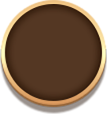
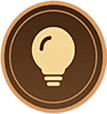
修改按钮

diff --git a/js/libs/common.js b/js/libs/common.js
@@ -45,9 +45,15 @@ com.loadImages = function (stype) {
 	com.background = new Image();
 	com.background.src = "images/" + stype + "/bg.jpg";
 
-	//悔棋按钮
+	//支招按钮
 	com.withdrawBtn = new Image();
 	com.withdrawBtn.src = "images/withdrawBtn.png";
+	//悔棋按钮
+	com.withdrawBtn1 = new Image();
+	com.withdrawBtn1.src = "images/withdrawBtn1.png";
+	//重来按钮
+	com.withdrawBtn2 = new Image();
+	com.withdrawBtn2.src = "images/withdrawBtn2.png";
 
 	//体力图标
 	com.staminaIcon = new Image();
@@ -660,8 +666,8 @@ com.class.Main = function (images, x, y) {
 			com.ct.drawImage(com.background, 0, 0, tt.getSystemInfoSync().windowWidth, tt.getSystemInfoSync().windowHeight)
 			com.ct.drawImage(com.bgImg, 0, com.spaceY * this.y + com.centreY, com.width, com.width * 1.34333)
 			com.ct.drawImage(com.withdrawBtn, com.centreX + 5, com.centreY + com.width * 1.34333 + 20, withdrawBtnWidth, withdrawBtnHeight)
-			com.ct.drawImage(com.withdrawBtn, com.centreX + 10 + (com.withdrawBtn.width) * 0.5, com.centreY + com.width * 1.34333 + 20, withdrawBtnWidth, withdrawBtnHeight)
-			com.ct.drawImage(com.withdrawBtn, com.width - 10 - withdrawBtnWidth + com.centreX + 5, com.centreY + com.width * 1.34333 + 20, withdrawBtnWidth, withdrawBtnHeight)
+			com.ct.drawImage(com.withdrawBtn1, com.centreX + 10 + (com.withdrawBtn.width) * 0.5, com.centreY + com.width * 1.34333 + 20, withdrawBtnWidth, withdrawBtnHeight)
+			com.ct.drawImage(com.withdrawBtn2, com.width - 10 - withdrawBtnWidth + com.centreX + 5, com.centreY + com.width * 1.34333 + 20, withdrawBtnWidth, withdrawBtnHeight)
 			com.ct.drawImage(com.checkpoint, com.centreX + 5, com.centreY - staminaHeight * 2.25, staminaWidth * 0.75, staminaHeight)
 			com.ct.drawImage(com.backToHomepage, com.centreX - 5, com.centreY - staminaHeight * 4, staminaWidth * 0.55, staminaWidth * 0.55)
 
@@ -698,19 +704,19 @@ com.class.Main = function (images, x, y) {
 	this.withdrawText = function (ctx) {
 		ctx.fillStyle = '#F9D195'
 		ctx.font = `${parseInt(withdrawBtnWidth / 4)}px Arial`
-		ctx.fillText('悔棋', com.centreX + 10 + (com.withdrawBtn.width) * 0.5 + (withdrawBtnWidth - parseInt(withdrawBtnWidth / 2)) / 2, com.spaceY * this.y + com.centreY + com.width * 1.34333 + withdrawBtnHeight - parseInt(withdrawBtnWidth / 12))
+		ctx.fillText('悔棋', com.centreX + 10 + (com.withdrawBtn.width) * 0.5 + (withdrawBtnWidth - parseInt(withdrawBtnWidth / 2)) / 2, com.centreY + com.width * 1.34333 + 20 + withdrawBtnHeight + parseInt(withdrawBtnWidth / 4))
 	}
 
 	this.promptText = function (ctx) {
 		ctx.fillStyle = '#F9D195'
 		ctx.font = `${parseInt(withdrawBtnWidth / 4)}px Arial`
-		ctx.fillText('支招', com.spaceX * this.x + com.centreX + 5 + (withdrawBtnWidth - parseInt(withdrawBtnWidth / 2)) / 2, com.centreY + com.width * 1.34333 + withdrawBtnHeight - parseInt(withdrawBtnWidth / 12))
+		ctx.fillText('支招', com.spaceX * this.x + com.centreX + 5 + (withdrawBtnWidth - parseInt(withdrawBtnWidth / 2)) / 2, com.centreY + com.width * 1.34333 + 20 + withdrawBtnHeight + parseInt(withdrawBtnWidth / 4))
 	}
 
 	this.revisitText = function (ctx) {
 		ctx.fillStyle = '#F9D195'
 		ctx.font = `${parseInt(withdrawBtnWidth / 4)}px Arial`
-		ctx.fillText('重来', com.width - 10 - withdrawBtnWidth + com.centreX + 5 + (withdrawBtnWidth - parseInt(withdrawBtnWidth / 2)) / 2, com.centreY + com.width * 1.34333 + withdrawBtnHeight - parseInt(withdrawBtnWidth / 12))
+		ctx.fillText('重来', com.width - 10 - withdrawBtnWidth + com.centreX + 5 + (withdrawBtnWidth - parseInt(withdrawBtnWidth / 2)) / 2, com.centreY + com.width * 1.34333 + 20 + withdrawBtnHeight + parseInt(withdrawBtnWidth / 4))
 	}
 
 	this.touchEvent = function (e) {
